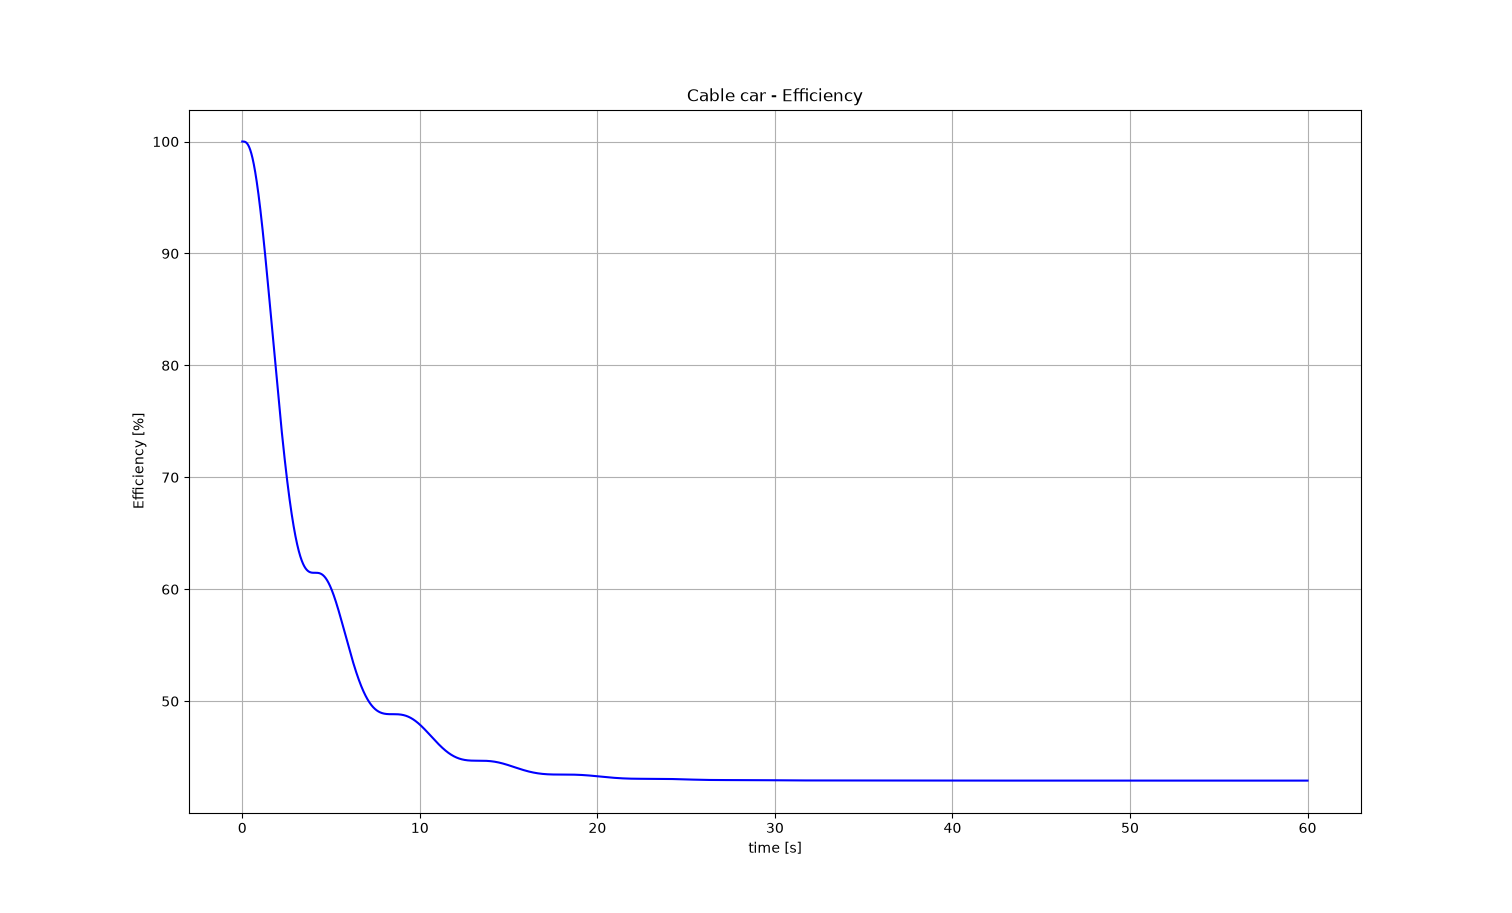
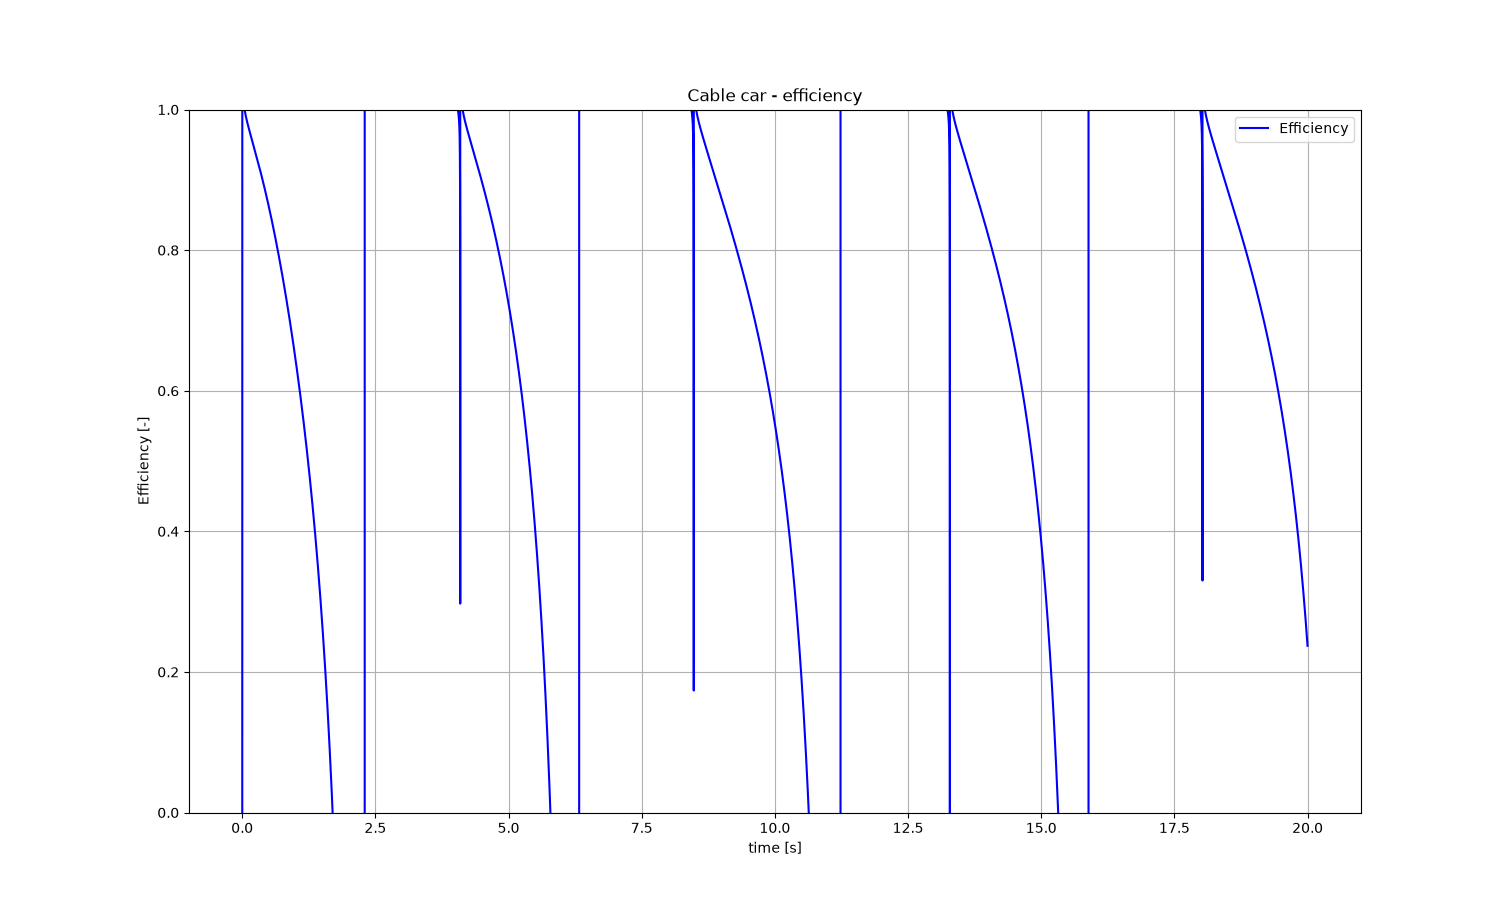
Patching efficiency graph

diff --git a/telepherique.py b/telepherique.py
@@ -30,7 +30,7 @@ f_d = 0.1                          # friction coefficient [kg/s]
 
 # Simulation
 step = 0.001                       # time step dt [s]
-end = 60.0                         # duration [s]
+end = 20.0                         # duration [s]
 x_0 = 0.0                          # initial horizontal position [m]
 du_0 = 0.0                         # initial speed [m/s]
 
@@ -205,7 +205,14 @@ def draw_energy(t: np.ndarray, y: np.ndarray, speed: np.ndarray) -> None:
     e_pot = m * g * y
     e_tot = e_kin + e_pot
 
-    efficiency = e_tot / e_tot[0] * 100
+    efficiency = []
+    for i in range(len(t) - 1):
+        d_kin = e_kin[i + 1] - e_kin[i]
+        d_pot = e_pot[i + 1] - e_pot[i]
+        if d_pot != 0:
+            efficiency.append(d_kin / -d_pot)
+        else:
+            efficiency.append(0)
 
     plt.figure('Energy')
     plt.plot(t, e_kin, label='Kinetic Energy', color='Orange')
@@ -219,11 +226,13 @@ def draw_energy(t: np.ndarray, y: np.ndarray, speed: np.ndarray) -> None:
     plt.show()
 
     plt.figure('Efficiency')
-    plt.plot(t[0:], efficiency, color='Blue')
+    plt.plot(t[1:], efficiency, color='Blue', label='Efficiency')
     plt.xlabel("time [s]")
-    plt.ylabel("Efficiency [%]")
-    plt.title("Cable car - Efficiency")
+    plt.ylabel("Efficiency [-]")
+    plt.ylim((0, 1))
+    plt.title("Cable car - efficiency")
     plt.grid(True)
+    plt.legend()
     plt.show()
 
 def draw_phase_space(x: np.ndarray, speed: np.ndarray, color: str='Black') -> None:
